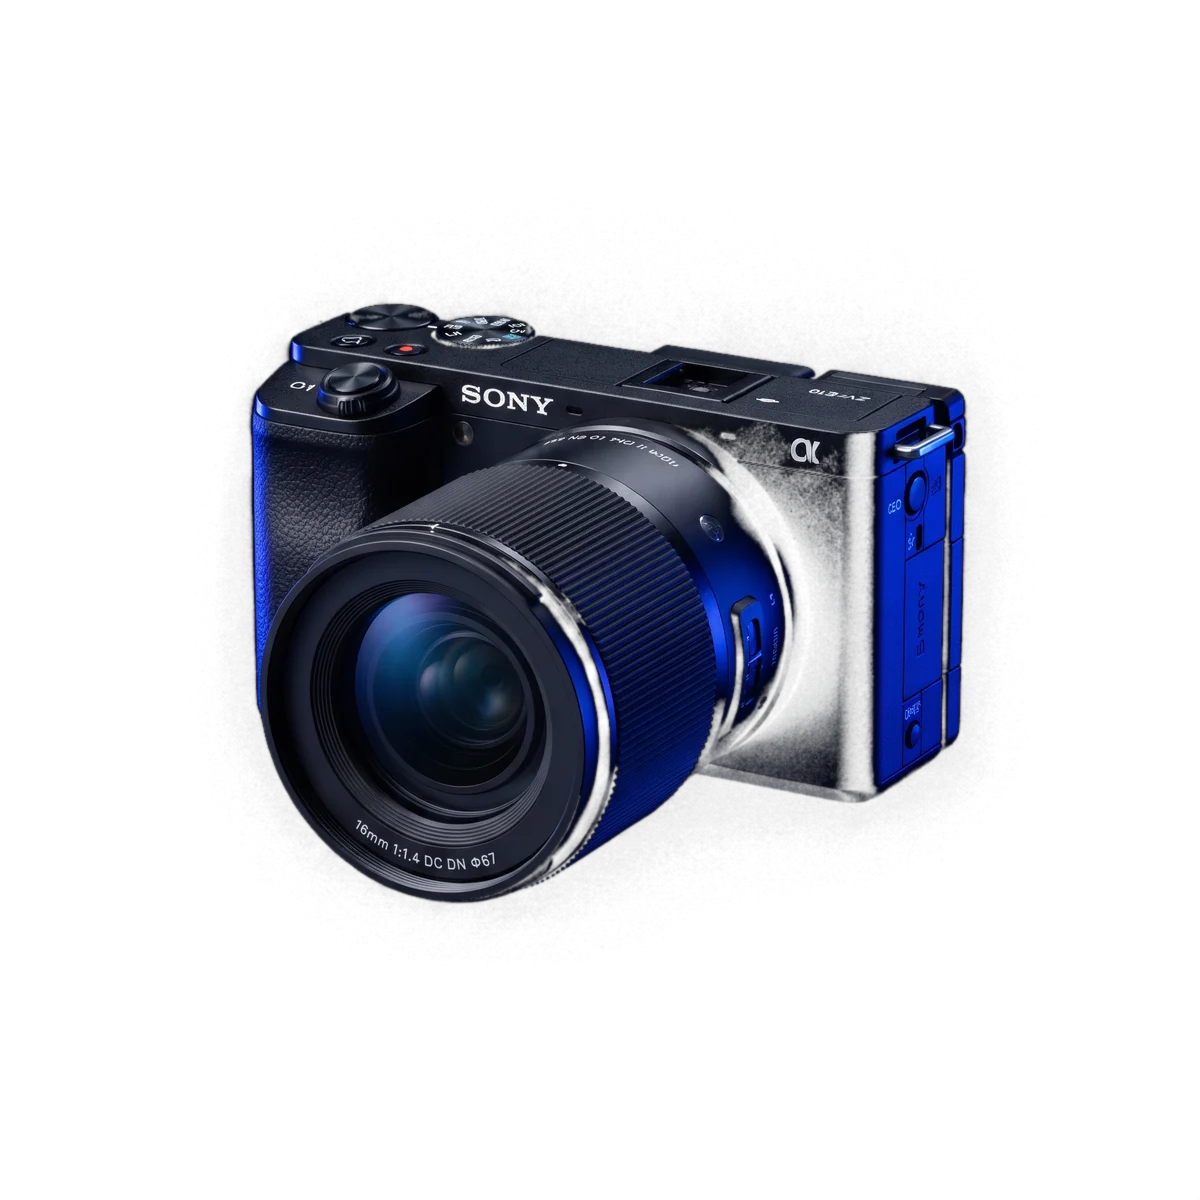
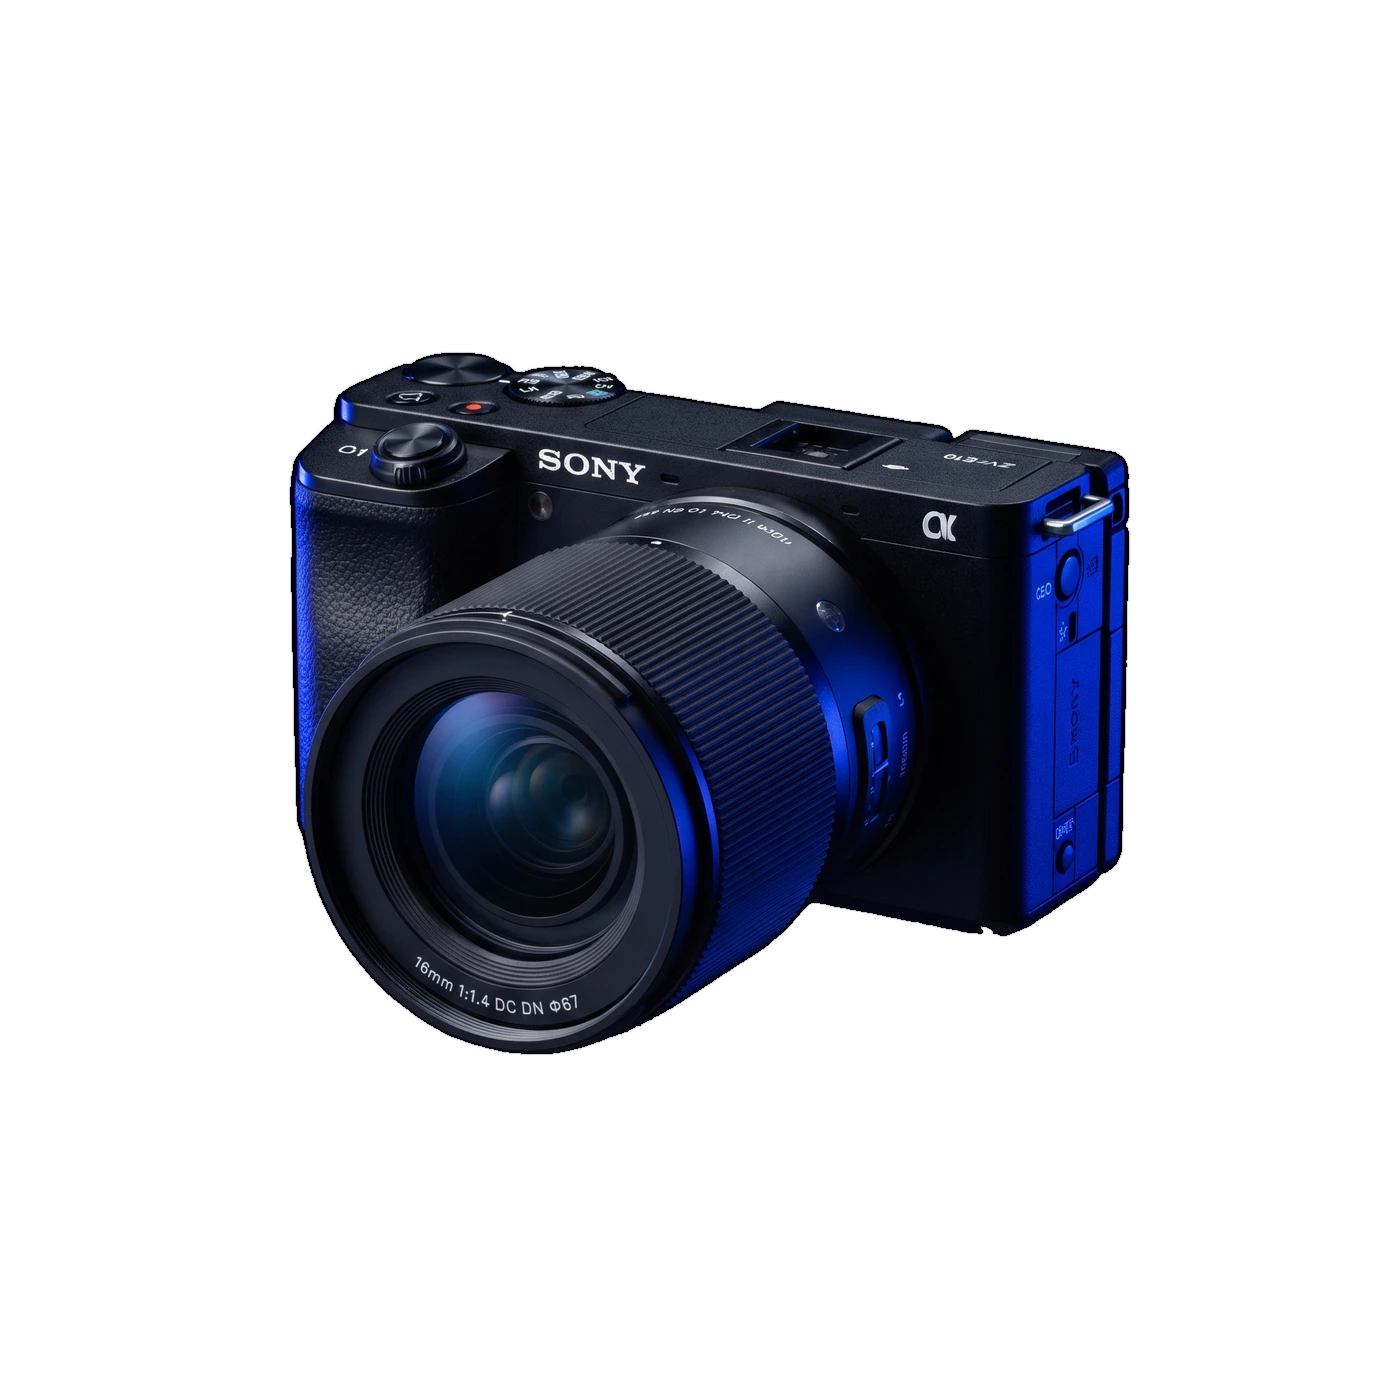
fix: câmera recortada 100% opaca, sem franja, com cores originais

diff --git a/scripts/recortar-fundo.py b/scripts/recortar-fundo.py
@@ -1,0 +1,73 @@
+"""
+Recorta o fundo preto de uma foto de produto (ex.: câmera e cartão SD do site)
+e salva um WebP com transparência.
+
+Uso: python3 scripts/recortar-fundo.py original.jpg saida.webp [tamanho] [limite]
+  tamanho  lado em px do resultado (padrão 1200)
+  limite   brilho (0–255, já suavizado) abaixo do qual o fundo some (padrão 14).
+           Mantenha baixo: o objeto fica 100% opaco e com as cores originais.
+           Fotos geradas para isso devem ter fundo preto puro e SEM halo/brilho em
+           volta (o brilho é feito por CSS no site).
+
+O fundo é o preto ligado às bordas da imagem; partes escuras dentro do objeto
+continuam opacas. Requer Pillow e numpy.
+"""
+import sys
+from collections import deque
+import numpy as np
+from PIL import Image, ImageFilter
+
+src, out = sys.argv[1], sys.argv[2]
+size = int(sys.argv[3]) if len(sys.argv) > 3 else 1200
+T = float(sys.argv[4]) if len(sys.argv) > 4 else 14.0
+im = Image.open(src).convert("RGB").resize((size, size), Image.LANCZOS)
+a = np.asarray(im).astype(np.float32)
+lum = a.max(axis=2)
+# brilho suavizado: o ruído de compressão perto do preto não vira "ilha" no fundo
+lum_s = np.asarray(Image.fromarray(lum.astype(np.uint8)).filter(ImageFilter.GaussianBlur(2))).astype(np.float32)
+cand = lum_s < T
+h, w = cand.shape
+bg = np.zeros_like(cand)
+q = deque()
+for x in range(w):
+    for y in (0, h - 1):
+        if cand[y, x] and not bg[y, x]:
+            bg[y, x] = True; q.append((y, x))
+for y in range(h):
+    for x in (0, w - 1):
+        if cand[y, x] and not bg[y, x]:
+            bg[y, x] = True; q.append((y, x))
+while q:
+    y, x = q.popleft()
+    for dy, dx in ((1, 0), (-1, 0), (0, 1), (0, -1)):
+        ny, nx = y + dy, x + dx
+        if 0 <= ny < h and 0 <= nx < w and cand[ny, nx] and not bg[ny, nx]:
+            bg[ny, nx] = True; q.append((ny, nx))
+# descarta ilhas pequenas fora do objeto (sobras de ruído)
+obj = ~bg
+seen = np.zeros_like(obj)
+keep = np.zeros_like(obj)
+min_area = obj.size * 0.00015
+for sy, sx in zip(*np.nonzero(obj)):
+    if seen[sy, sx]:
+        continue
+    comp = []
+    dq = deque([(sy, sx)]); seen[sy, sx] = True
+    while dq:
+        y, x = dq.popleft(); comp.append((y, x))
+        for dy, dx in ((1, 0), (-1, 0), (0, 1), (0, -1)):
+            ny, nx = y + dy, x + dx
+            if 0 <= ny < h and 0 <= nx < w and obj[ny, nx] and not seen[ny, nx]:
+                seen[ny, nx] = True; dq.append((ny, nx))
+    if len(comp) >= min_area:
+        ys, xs = zip(*comp); keep[list(ys), list(xs)] = True
+bg = ~keep
+
+# alpha: objeto 100% opaco; só o fundo preto ligado às bordas some.
+# Um desfoque mínimo suaviza a borda (antisserrilhado) sem deixar o objeto transparente.
+alpha = np.where(bg, 0.0, 1.0)
+am = Image.fromarray((alpha * 255).astype(np.uint8)).filter(ImageFilter.GaussianBlur(0.7))
+am = Image.fromarray(np.maximum(np.asarray(am), (alpha * 255).astype(np.uint8)))
+rgba = im.copy(); rgba.putalpha(am)
+rgba.save(out, "WEBP", quality=92, method=6)
+print(out, "bg%", round(bg.mean() * 100, 1))
